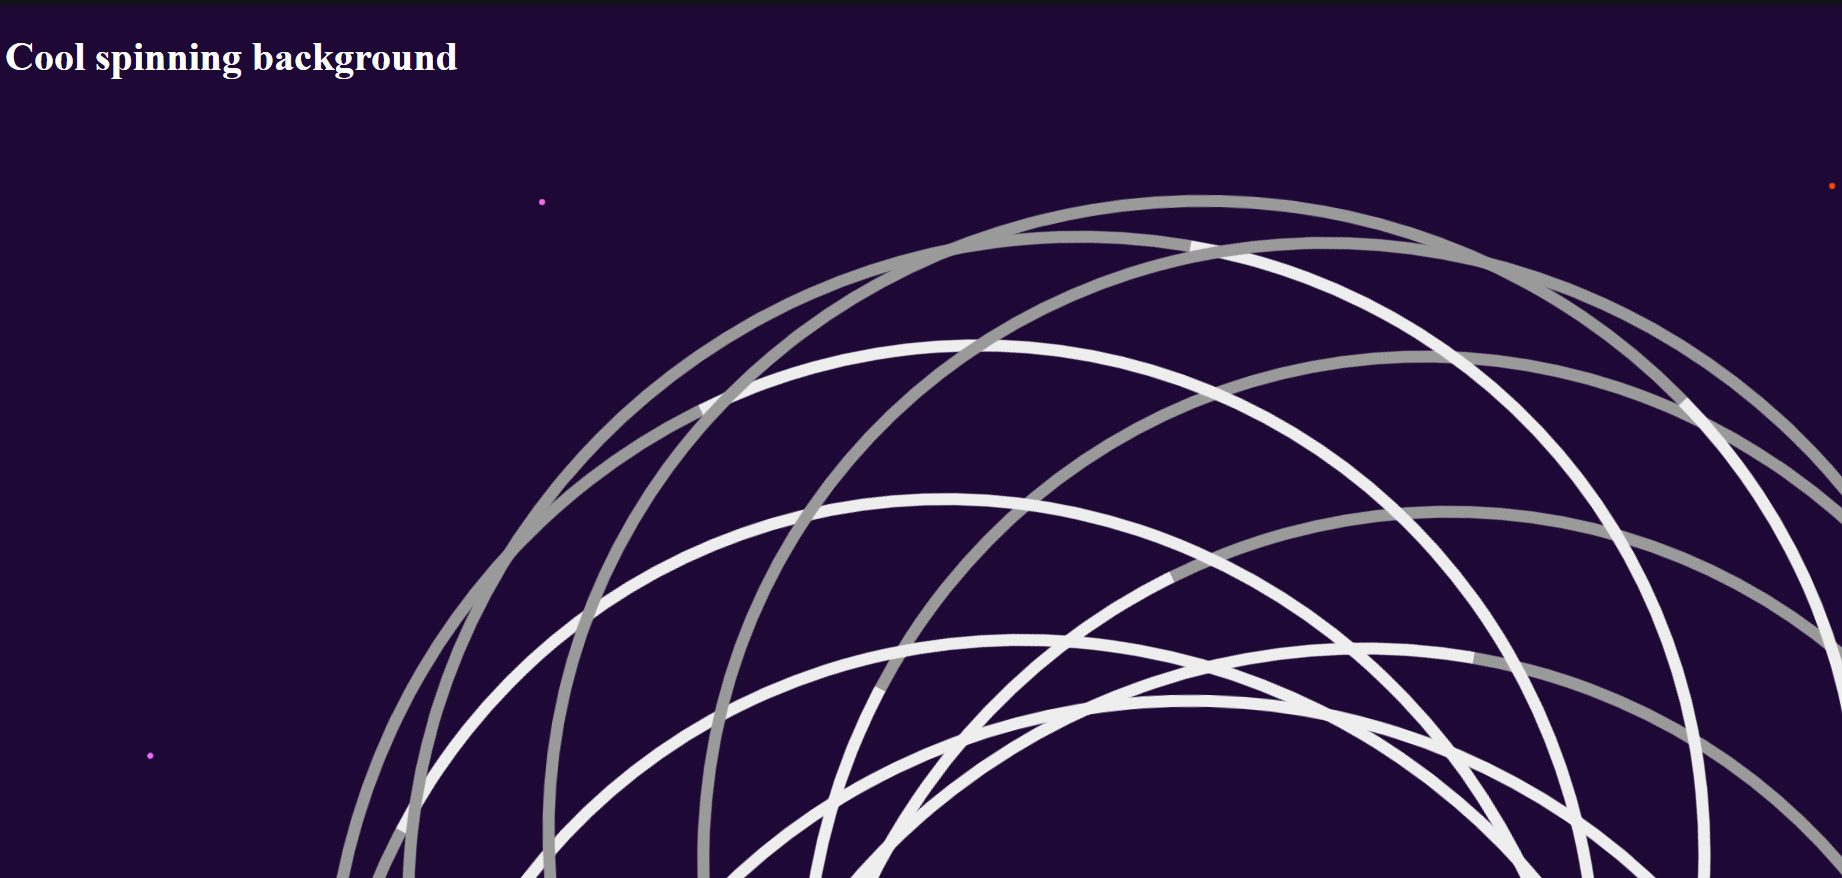
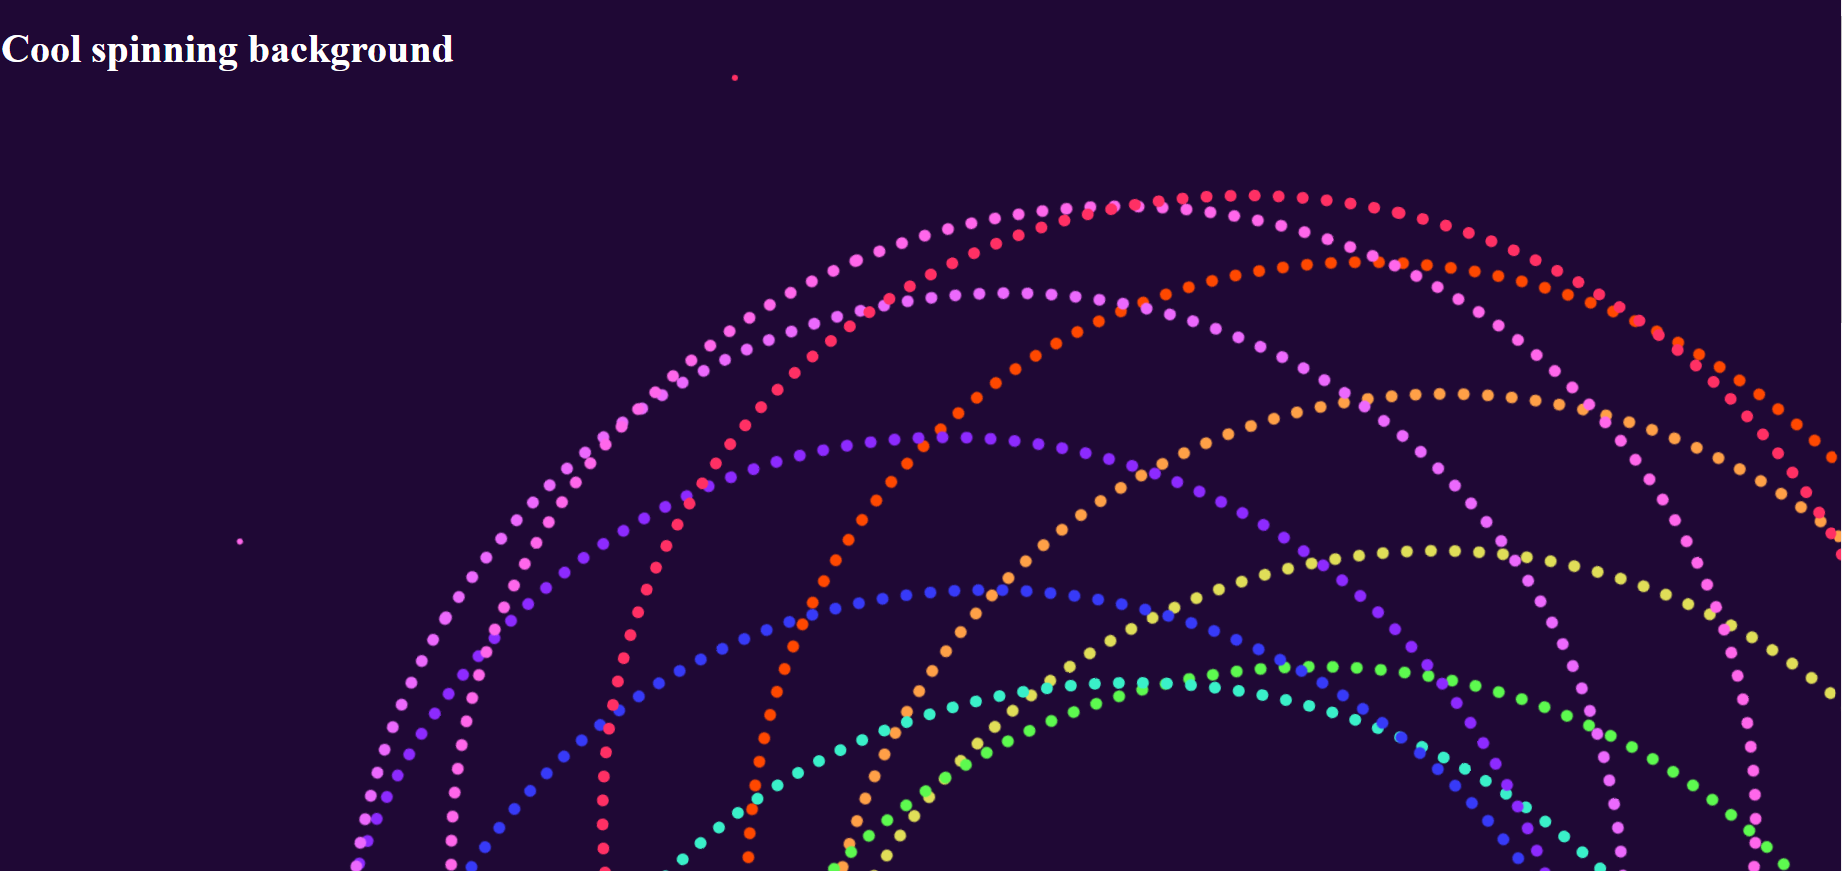
Fix: fixed the thumbnail

diff --git a/web/src/index.js b/web/src/index.js
@@ -39,7 +39,7 @@ let apps = [
    {
       title: "Rotating Background",
       link: "../apps/rotatingBackground/index.html",
-      coverImg: "../apps/donut/thumbnail.png",
+      coverImg: "../apps/rotatingBackground/Thumbnail.png",
       author: "Betim Hodza",
       authorImg: "./assets/appImages/coffee cat.png",
    },
